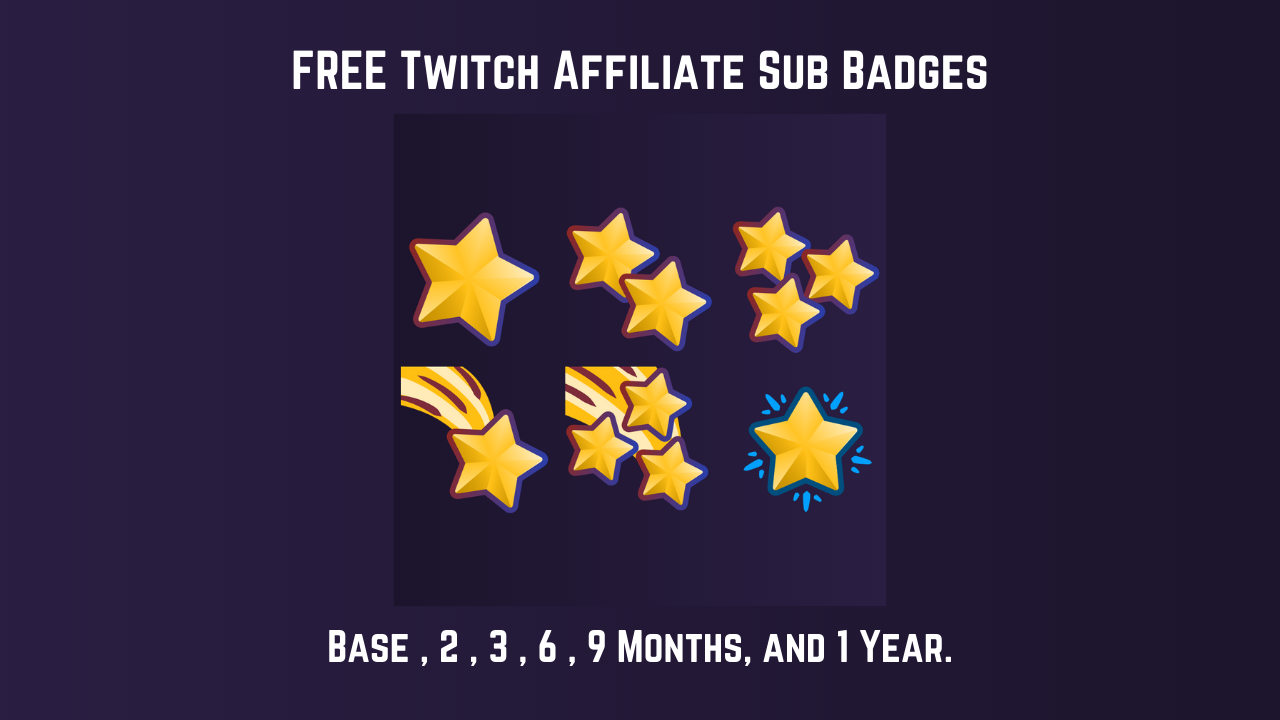
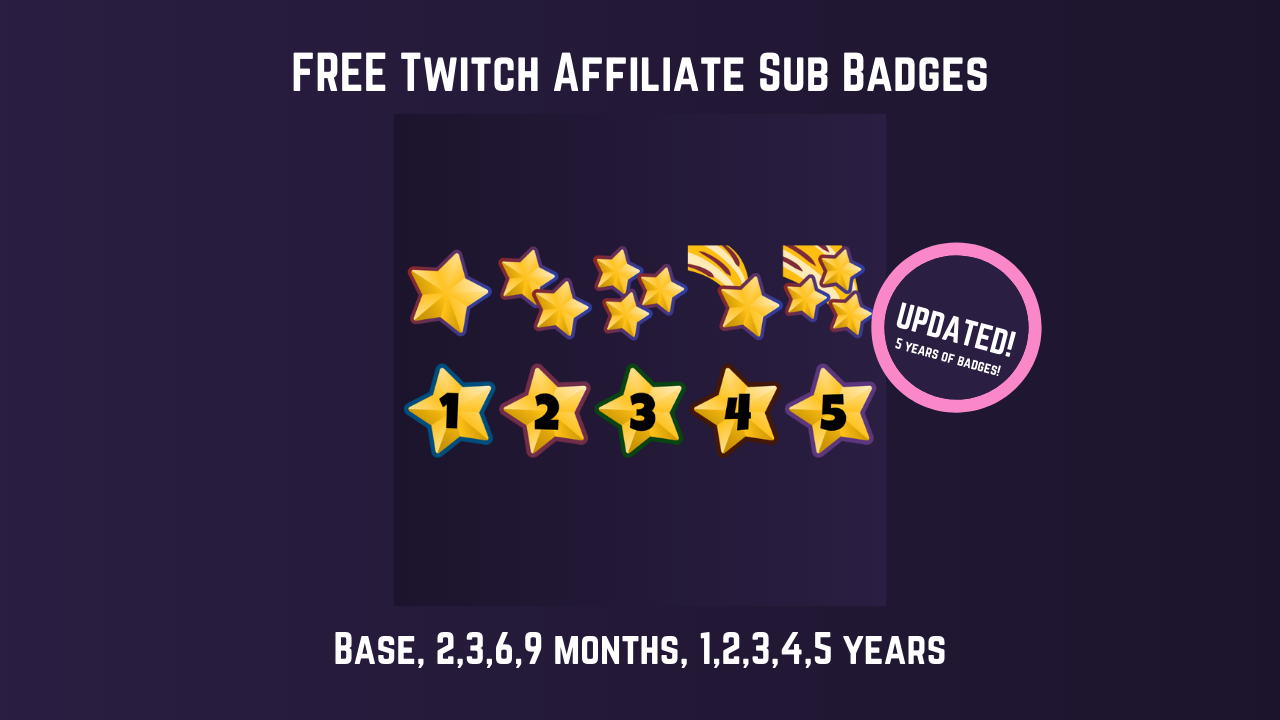
Sub Badge Update

diff --git a/src/site/posts/free-twitch-sub-badges.md b/src/site/posts/free-twitch-sub-badges.md
@@ -23,7 +23,10 @@ seo_desc: FREE resource for Twitch Affiliate streamers! Fatsack has created a
 ---
 Just hit Twitch Affiliate and need to set up your Sub Badges? I got you covered! Use these free Sub Loyalty Badges to start hyping up your community. Use them as a temporary stand-in, or forever!
 
-This bundle includes Badges for: Base Subscriber, 2 Months, 3 Months, 6 Months, 9 Months, and 1 Year.
+## Update!
+Twitch recently updated Sub Badges to go up to 5 years for Affiliates! I've updated the pack to include these extra years. Everything's still free, and still licensed CC BY 4.0!
+
+This bundle includes badges for: Base Subscriber, 2 Months, 3 Months, 6 Months, 9 Months, 1 Year, 2 Years, 3 Years, 4 Years, and 5 Years.
 
 Use the source file to personalize them with brand colors, change out shapes, or just peek under the hood at how you might want to go about making Badges yourself.
 
@@ -41,7 +44,7 @@ If you're just using the Badges for your channel and don't plan on editing them 
 
 
 ## Using the Badges
-To use these Sub Loyalty Badges for your Twitch channel, go to your Creator Dashboard and navigate to *Settings >> Affiliate >> Loyalty Badges*. From there you can upload the images found in the 'Badges' folder for each image size.
+To use these Sub Loyalty Badges for your Twitch channel, go to your Creator Dashboard and navigate to *Settings >> Affiliate >> Subscriber Badges*. From there you can upload the images found in the 'Badges' folder for each image size.
 
 I've labeled the images in order, as well as labeled the image size for each badge. You can either click each Badge size to find and upload from the file picker, or you can drag and drop each image. Make sure to save your changes and you're set! Enjoy the new Sub Loyalty Badges.
 
